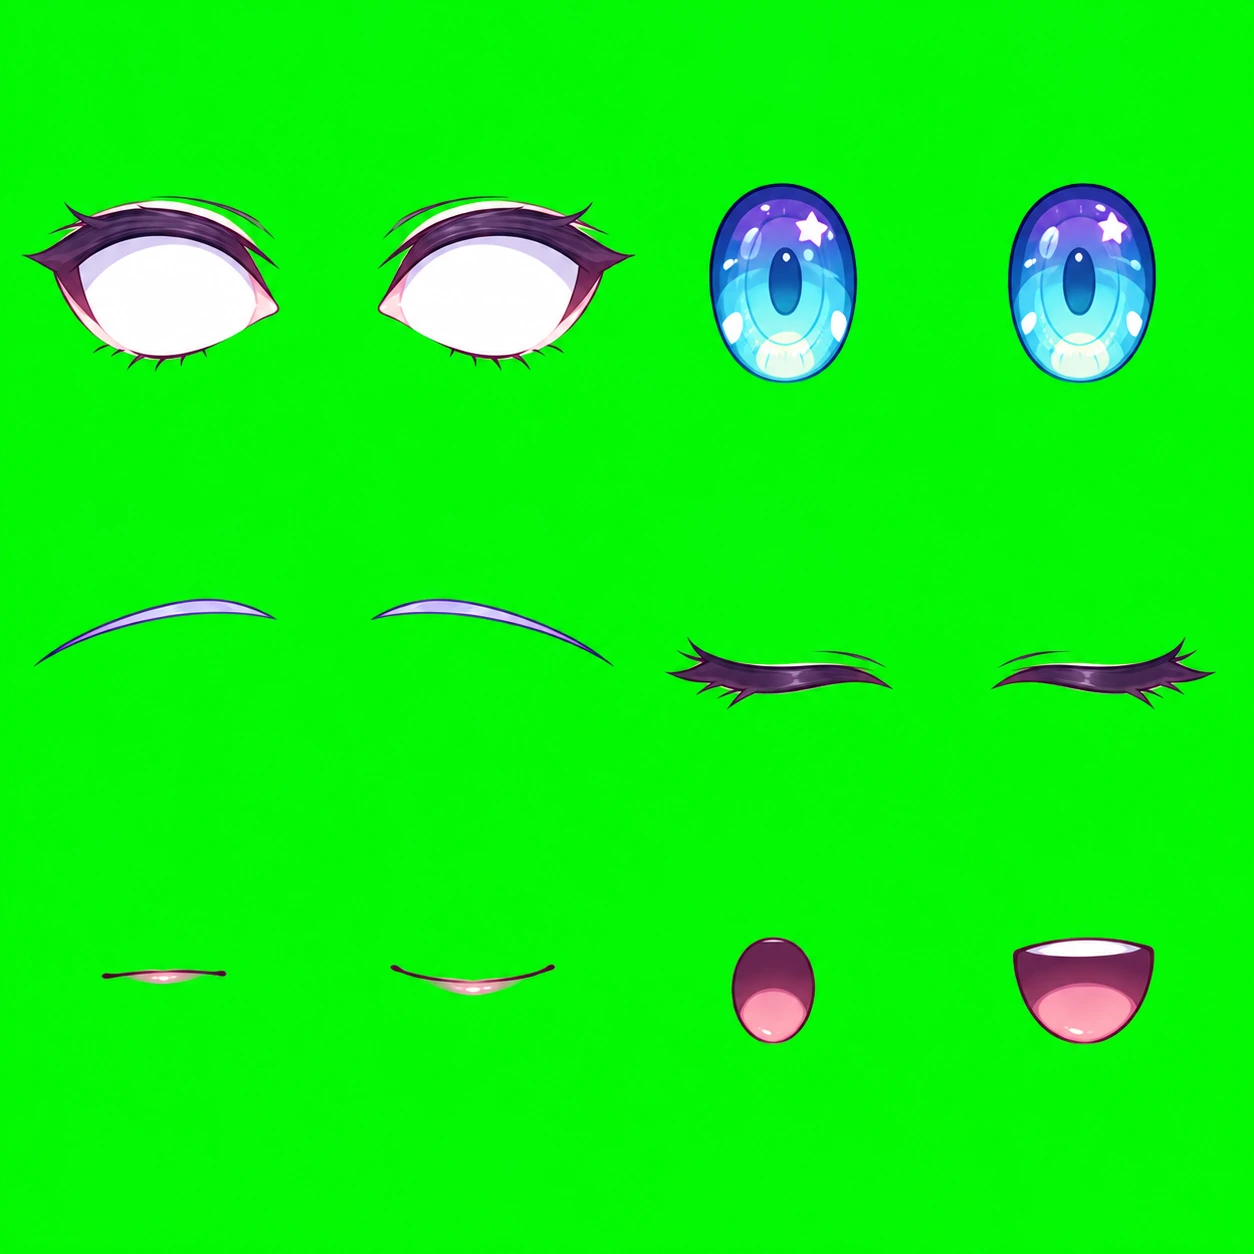
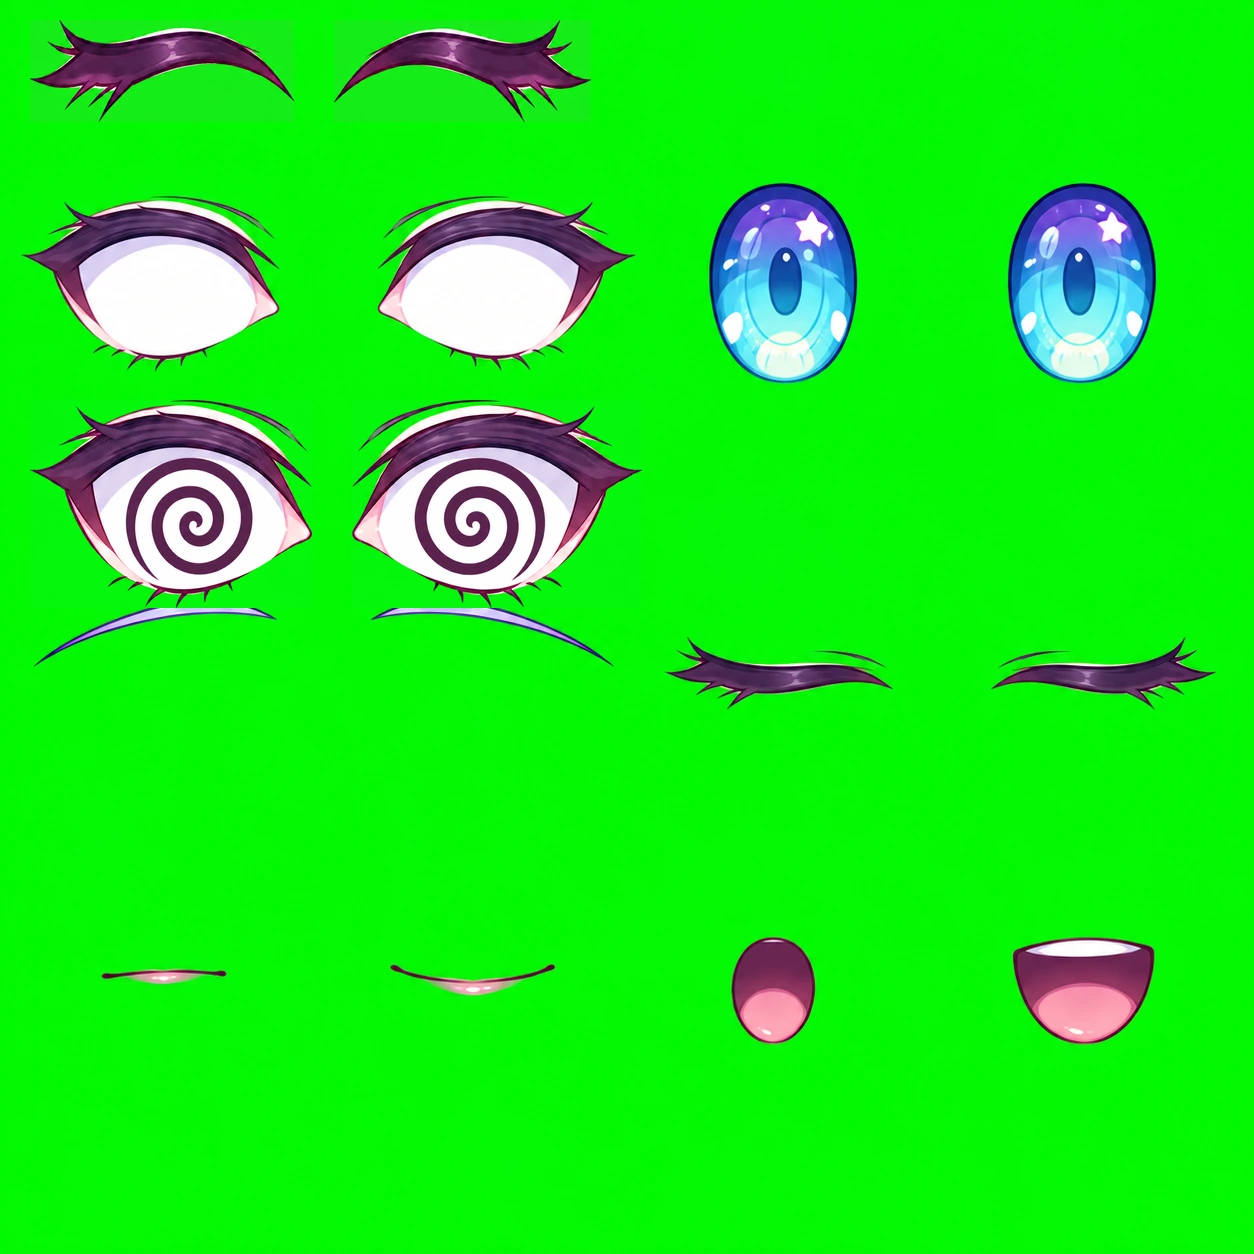
桌寵揮手改成掌心朝外，同步 glitch-2d 0.5.x
先前換成骨架之後，揮手揮的是手背——靜態圖時代有的掌心，換成會動的
之後反而沒了。現在是掌心正對鏡頭、五指張開。

袖子換成拿掉手的版本，手獨立成側手掌與正面掌心兩個部件，armFold 過
0.55 換手，任何時刻只有一隻手。2D 圖轉不出另一個觀看角度，所以走
Live2D 的差分切換，完整脈絡在 glitch-2d 的 README。

表情多了畫出來的笑眼與螺旋眼，happy 與 error 自動套用。

取景加寬了，因為揮手時手臂會伸到原本的框外。桌寵在同一個畫布裡是
原本的 90%，垂手時左邊那塊空間是留給揮手的。

sync_glitch2d.py 現在自己維護 sw.js 的骨架貼圖清單。那份清單原本是手
動的，rig 加了貼圖就會忘記跟上，離線時新素材抓不到——這次就漏了
hand-open 與 sleeve-left-v9 兩張。

diff --git a/glitch2d/engine/motion.js b/glitch2d/engine/motion.js
@@ -37,6 +37,10 @@ export const EMOTES = Object.freeze({
 });
 // Emotes the caller should render with its own glitch treatment.
 export const GLITCHED_EMOTES = Object.freeze(['error']);
+// Drawn eye art that replaces the whole eye for an emote. Parameters can
+// narrow an eye but cannot bend it into a smile or fill it with a spiral, so
+// these two swap in their own art through the eyes slot.
+export const EMOTE_EYES = Object.freeze({ happy: 'smile', error: 'spiral' });
 // A full reset, so switching emotes never carries the previous one's leftovers.
 export const NEUTRAL_POSE = Object.freeze({
   smile: 0, brow: 0, eyeOpen: 1, mouthWide: 0, mouthOpen: 0,
@@ -155,12 +159,23 @@ export class Motion {
     this.nextBlink = 2.5;
     this.blinkTime = -1;
     this.waveTime = -1;
+    this.slots = {};
     this.hair = new Spring();
   }
   setParameters(values) {
     for (const [id, value] of Object.entries(values)) {
       if (!Object.hasOwn(PARAMS, id) || !Number.isFinite(value)) continue;
       this.target[id] = clamp(value, PARAMS[id][0], PARAMS[id][1]);
+    }
+  }
+  /* Which variant is showing in each art slot. Unknown slots are ignored so a
+     caller cannot invent one, and 'default' clears a slot back to the base art. */
+  setSlots(values) {
+    const known = new Set(this.rigSlots || []);
+    for (const [slot, variant] of Object.entries(values)) {
+      if (known.size && !known.has(slot)) continue;
+      if (variant === 'default' || variant == null) delete this.slots[slot];
+      else this.slots[slot] = String(variant);
     }
   }
   setExpression(name) {
@@ -170,6 +185,7 @@ export class Motion {
   reset() {
     this.setParameters(Object.fromEntries(Object.entries(PARAMS).map(([id, spec]) => [id, spec[2]])));
     this.pointer = { x: 0, y: 0 };
+    this.slots = {};
     this.blinkTime = this.waveTime = -1;
   }
   blink() { this.blinkTime = 0; }
@@ -206,10 +222,17 @@ export class Motion {
       const speed = key === 'mouthOpen' ? (target[key] > this.values[key] ? 25 : 17) : 12;
       this.values[key] = lerp(this.values[key], clamp(target[key], PARAMS[key][0], PARAMS[key][1]), 1 - Math.exp(-speed * dt));
     }
+    // Which hand is on. The sleeve's own hand is cut out of its texture, so a
+    // hand part is always drawn and exactly one of them is visible. The side
+    // view is drawn hanging and the palm is drawn raised, so the swap happens
+    // once the forearm is up far enough for the palm to read as a greeting.
+    // Live2D swaps hands the same way rather than trying to turn one.
+    const HAND_SWAP = .55;
     // The bend drivers are already smooth in time; running them through the
     // spring would only damp the swing, so they go straight onto the pose.
-    const pose = { ...this.values, armRaise: 0, armFold: 0, handAngle: 0, lean: 0, tilt: 0 };
+    const pose = { ...this.values, armRaise: 0, armFold: 0, handAngle: 0, lean: 0, tilt: 0, slots: {} };
     if (wave) Object.assign(pose, { armRaise: wave.armRaise, armFold: wave.armFold, handAngle: wave.handAngle, lean: wave.lean, tilt: wave.tilt });
+    pose.slots = { ...this.slots, leftHand: pose.armFold > HAND_SWAP ? 'open' : 'default' };
     if (this.blinkTime >= 0) {
       this.blinkTime += dt;
       // Fast closure, a brief hold, then a slower reopening. Geometric aperture.

diff --git a/glitch2d/pet.js b/glitch2d/pet.js
@@ -8,7 +8,7 @@
    對外只有 mountPet()。它回傳的 handle 就是站上會用到的四件事：
    表情、揮手、跟著音訊動嘴、把自己收掉。載入失敗時回傳 null，
    呼叫端保持原本的靜態圖，不會開天窗。 */
-import { Motion, EMOTES, GLITCHED_EMOTES, NEUTRAL_POSE } from './engine/motion.js';
+import { Motion, EMOTES, GLITCHED_EMOTES, EMOTE_EYES, NEUTRAL_POSE } from './engine/motion.js';
 import { buildScene } from './engine/geometry.js';
 import { WebGLRenderer, CanvasRenderer, loadTextures } from './engine/renderer.js';
 import { VoicePlayer } from './engine/audio.js';
@@ -89,6 +89,7 @@ export async function mountPet(canvas, options = {}) {
   const neutral = () => {
     glitching = false;
     motion.setParameters(NEUTRAL_POSE);
+    motion.setSlots({ eyes: 'default' });
     handle.onemote?.(null);
   };
 
@@ -105,6 +106,8 @@ export async function mountPet(canvas, options = {}) {
       glitching = GLITCHED_EMOTES.includes(id);
       // 先回到平常臉再疊，表情之間切換才不會把上一個的殘留帶過去。
       motion.setParameters({ ...NEUTRAL_POSE, ...preset });
+      // happy and error swap in drawn eyes; the rest use the base art.
+      motion.setSlots({ eyes: EMOTE_EYES[id] ?? 'default' });
       emoteTimer = setTimeout(neutral, hold);
       handle.onemote?.(id);
       return true;

diff --git a/sw.js b/sw.js
@@ -5,8 +5,8 @@
    聊天歷史與使用者資料在 IndexedDB；跨域 AI / Giscus 請求不快取。 */
 
 /* cache:start — scripts/update_sw_hashes.py 產生，勿手改 */
-const SHELL_CACHE = 'glos-shell-e2b67ad16ed9';
-const ASSET_CACHE = 'glos-assets-3b509222617d';
+const SHELL_CACHE = 'glos-shell-44391c24f397';
+const ASSET_CACHE = 'glos-assets-9d5f4887fd5f';
 /* cache:end */
 const KEEP = [SHELL_CACHE, ASSET_CACHE];
 const MATCH = { ignoreSearch: true, ignoreVary: true };
@@ -40,8 +40,9 @@ const WARM_ASSETS = [
   './audio/intro-glitch.mp3', './audio/intro-blackhole.mp3',
   './images/glitch2d/face-features.webp', './images/glitch2d/torso.webp',
   './images/glitch2d/face-base.webp', './images/glitch2d/hair-v2.webp',
-  './images/glitch2d/sleeve-left-v8.webp', './images/glitch2d/sleeve-right-v6.webp',
-  './images/glitch2d/skirt-v2.webp', './images/glitch2d/legs-v6.webp'
+  './images/glitch2d/sleeve-left-v9.webp', './images/glitch2d/sleeve-right-v6.webp',
+  './images/glitch2d/skirt-v2.webp', './images/glitch2d/legs-v6.webp',
+  './images/glitch2d/sleeve-left-v8.webp', './images/glitch2d/hand-open-v6.webp'
 /* warm:end */
 ];
 

diff --git a/glitch2d/engine/geometry.js b/glitch2d/engine/geometry.js
@@ -182,6 +182,9 @@ export function partOpacity(part, pose) {
   if (part.type === 'mouth') return clamp(pose.mouthOpen / .12, 0, 1);
   if (part.type === 'lip') return 1 - clamp(pose.mouthOpen / .12, 0, 1);
   if (part.type === 'closed-eye') return 1 - clamp(pose.eyeOpen / .16, 0, 1);
+  // A drawn replacement for the whole eye. Its own slot decides when it shows,
+  // so it must not also fade with the aperture the way the default parts do.
+  if (part.type === 'eye-art') return part.opacity ?? 1;
   if (part.type === 'eye' || part.type === 'iris' || part.type === 'lash') return clamp(pose.eyeOpen / .09, 0, 1);
   if (part.type === 'blush') return clamp(pose.smile, 0, 1) * .4;
   return part.opacity ?? 1;

diff --git a/scripts/sync_glitch2d.py b/scripts/sync_glitch2d.py
@@ -42,6 +42,43 @@ def rig_for_site(source_rig: dict) -> dict:
     return rig
 
 
+SW_START = "  './images/glitch2d/"
+
+
+def sw_asset_lines(rig: dict) -> str:
+    """離線清單裡的骨架貼圖，兩個一行，照 rig 的順序。"""
+    names = []
+    for spec in rig["textures"].values():
+        name = spec["src"].rsplit("/", 1)[-1].replace(".png", ".webp")
+        if name not in names:
+            names.append(name)
+    entries = [f"'./images/glitch2d/{n}'" for n in names]
+    rows = [entries[i:i + 2] for i in range(0, len(entries), 2)]
+    return ",\n".join("  " + ", ".join(row) for row in rows)
+
+
+def rewrite_sw(rig: dict) -> bool:
+    """把 sw.js 的骨架貼圖區塊換成 rig 現在真正載入的那幾張。
+
+    這份清單原本是手動維護的，rig 加了貼圖就會忘記跟上，離線時新素材抓不到。
+    改由這裡產生，漏不掉。
+    """
+    path = ROOT / "sw.js"
+    text = path.read_text(encoding="utf-8")
+    lines = text.split("\n")
+    first = next((i for i, line in enumerate(lines) if line.startswith(SW_START)), None)
+    if first is None:
+        return False
+    last = first
+    while last + 1 < len(lines) and lines[last + 1].startswith(SW_START):
+        last += 1
+    wanted = sw_asset_lines(rig)
+    if "\n".join(lines[first:last + 1]) == wanted:
+        return False
+    path.write_text("\n".join(lines[:first] + wanted.split("\n") + lines[last + 1:]), encoding="utf-8")
+    return True
+
+
 def main() -> int:
     parser = argparse.ArgumentParser()
     parser.add_argument("--source", default=str(ROOT.parent / "glitch-2d"))
@@ -91,6 +128,8 @@ def main() -> int:
                 drift.append(f"images/glitch2d/{webp.name}")
 
     if args.write:
+        if rewrite_sw(source_rig):
+            print("sw.js 的骨架貼圖清單已更新")
         print(f"已從 {source} 同步骨架執行期；記得跑 scripts/update_sw_hashes.py")
         return 0
     if drift:

diff --git a/NEXT.md b/NEXT.md
@@ -1,9 +1,16 @@
 # Next
 
 - [ ] 真機驗收背景播放:Android 關螢幕續播必驗;iOS 加入主畫面 standalone 鎖屏是否續播(glitch-music 站,Playwright 驗不了)
-- [ ] 桌寵的表情還差兩張畫出來的眼睛差分，參數已經調到底了。量法是同一個視窗、同一塊臉、跟 neutral 比平均像素差：舊靜態圖 happy 31.5、thinking 20.8、sleep 30.1、error 42.0；現在的骨架 happy 22.2、thinking 23.4、sleep 24.1、error 30.9。thinking 已經超過舊圖，sleep 接近，**happy 與 error 還差一截，缺的都是畫出來的眼睛**：
-  - happy 的笑眼（兩道 ^^ 弧線）。現在只能把 eyeOpen 壓到 0.3 瞇起來，形狀不對。
-  - error 的螺旋眼。現在是閉眼加張嘴加 CSS 抖動色偏，螺旋是參數生不出來的。
-  兩張都要在 glitch-2d 的臉部圖集加虹膜／眼線差分，rig.json 加對應部件（可以沿用 `closed-eye` 那種依參數切透明度的做法），再跑 `scripts/sync_glitch2d.py --write`。**這是改角色素材，要 yazelin 先看過。**
+- [ ] 桌寵的表情：笑眼與螺旋眼已經畫好並接上（glitch-2d 0.5.x，`eyes` slot 的兩個 variant，happy 與 error 自動套用）。舊的那組對照數字作廢，原因是量法有問題：它用的是跟 neutral 比的**時間平均**像素差，而 error 每幀都被呼叫端隨機抖動，零均值的抖動平均之後會互相抵消。舊數字沒有留下腳本，無法重跑，所以不再拿它比較。新的量法在 `glitch-2d/tools/check-expression.mjs`，逐幀相減取極值，出貨尺寸（220 像素高）下量：
+
+  | 表情 | 逐幀最強 | 時間平均 | 平均低估 |
+  | --- | --- | --- | --- |
+  | happy（畫的笑眼） | 15.3 | 13.2 | 13% |
+  | thinking | 33.7 | 31.9 | 5% |
+  | sleep | 33.5 | 31.2 | 7% |
+  | error（畫的螺旋眼） | 62.6 | 43.2 | **31%** |
+
+  畫上去的眼睛確實有幫助但幅度不大：happy 14.1→15.3、error 59.4→62.6。happy 仍然是四個裡最弱的（15.3 對 thinking 的 33.7），而且那個差距主要來自 thinking 會轉頭 — 現在的量法還是會被頭的移動主導，要真的只量五官得先把頭的姿勢歸零。
+
 - [ ] 桌寵的揮手是手臂擺動（骨架內建的 `wave()`），不是 `pet-plain.webp` 那種舉手張掌。那個要另產一張「舉起來的袖子＋張開手掌」素材，加成可切換部件，屬於 glitch-2d 那邊的工作。
 - [ ] 站上其他地方（大頭照、貼圖、日記配圖）還是舊畫風，桌寵換成新骨架之後兩種畫風並存。
